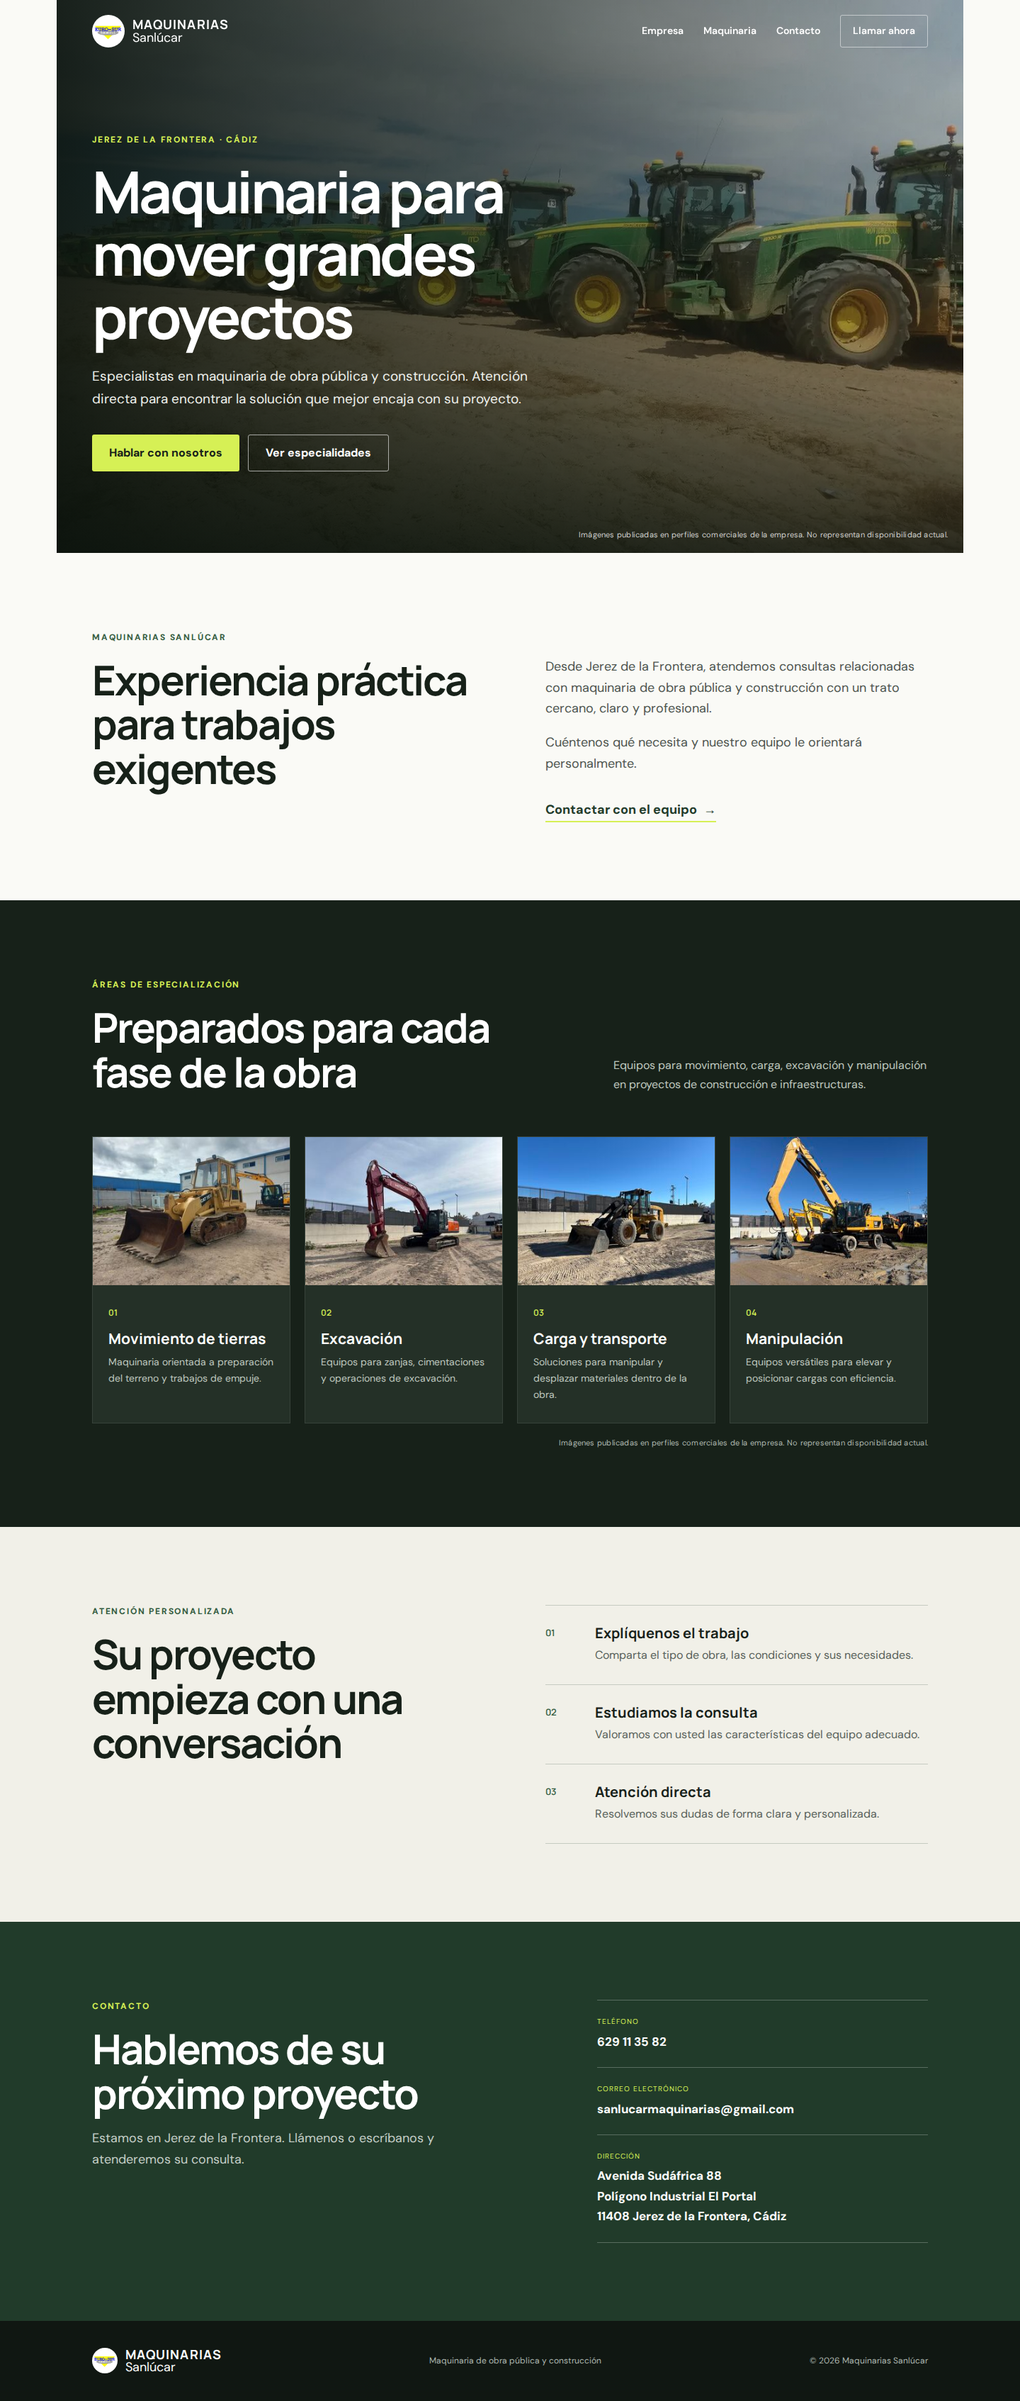
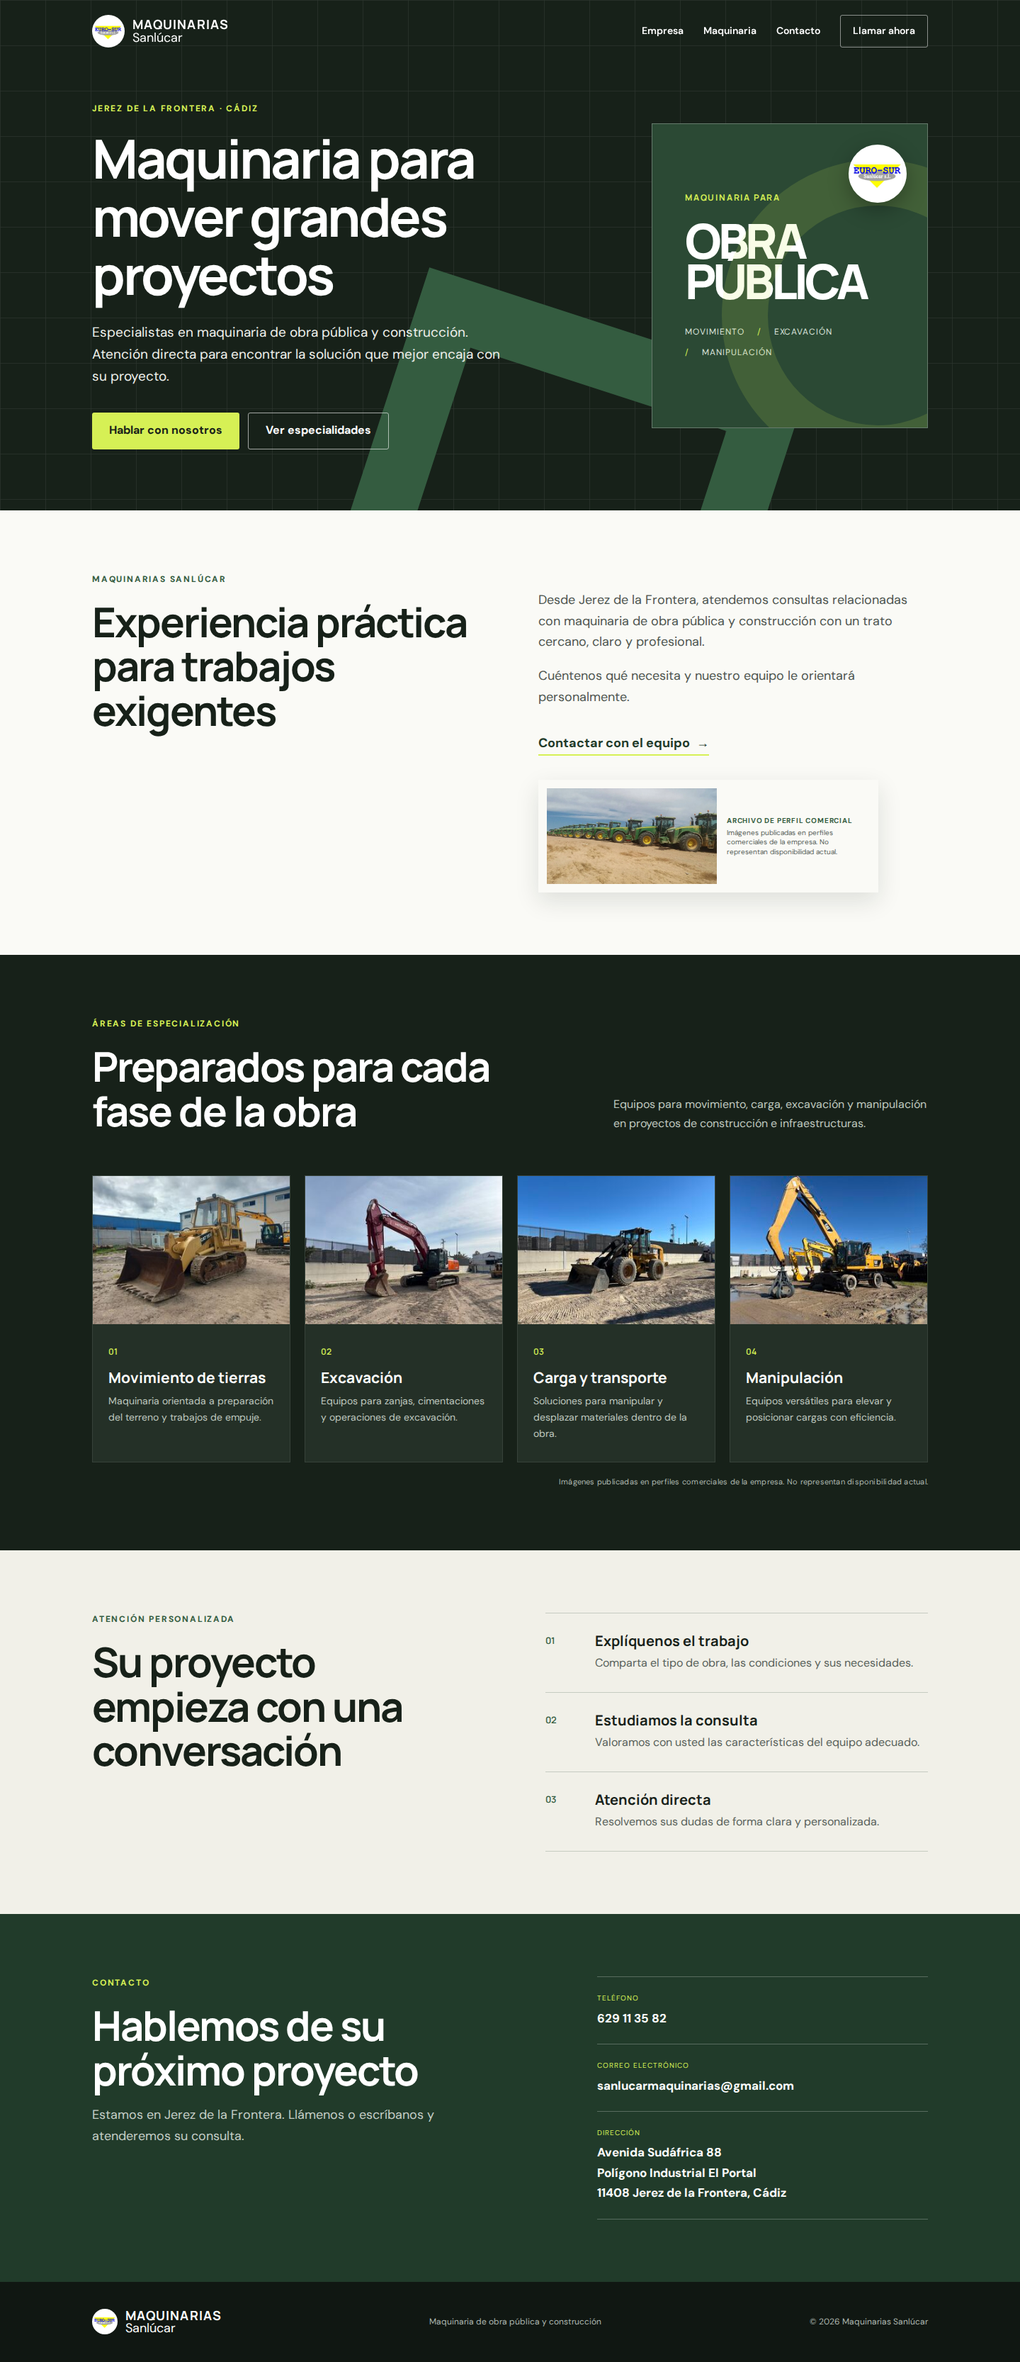
fix: simplificar composición editorial del hero

diff --git a/styles.css b/styles.css
@@ -3,11 +3,27 @@
 :root{--ink:#172119;--forest:#213b2a;--green:#345c40;--lime:#d6f055;--cream:#f1f0e8;--paper:#fafaf6;--line:#d5d8ce;--white:#fff;--sans:'DM Sans',Arial,sans-serif;--display:'Manrope',Arial,sans-serif;--shadow:0 18px 60px rgba(20,30,22,.14)}
 *{box-sizing:border-box}html{scroll-behavior:smooth}body{margin:0;background:var(--paper);color:var(--ink);font-family:var(--sans);font-size:16px;line-height:1.65}img{display:block;max-width:100%}a{color:inherit}.shell{width:min(1180px,calc(100% - 40px));margin-inline:auto}.skip-link{position:fixed;z-index:100;left:16px;top:-80px;background:var(--lime);padding:10px 16px;color:var(--ink)}.skip-link:focus{top:12px}.sr-only{position:absolute;width:1px;height:1px;padding:0;margin:-1px;overflow:hidden;clip:rect(0,0,0,0);white-space:nowrap;border:0}
 .site-header{position:fixed;z-index:20;inset:0 0 auto;color:var(--white);transition:.25s}.site-header.scrolled,.site-header.open{background:rgba(23,33,25,.97);box-shadow:0 8px 30px rgba(0,0,0,.18)}.nav-wrap{height:88px;display:flex;align-items:center;justify-content:space-between}.brand{display:flex;align-items:center;gap:11px;text-decoration:none;font-size:18px;line-height:1.05}.brand img{width:46px;height:46px;border-radius:50%;object-fit:cover}.brand span{display:grid}.brand strong{font-family:var(--display);text-transform:uppercase;letter-spacing:.06em}.site-nav{display:flex;align-items:center;gap:28px}.site-nav a{text-decoration:none;font-size:14px;font-weight:600}.site-nav>a:not(.nav-cta):hover{color:var(--lime)}.nav-cta{border:1px solid rgba(255,255,255,.5);padding:10px 17px;border-radius:3px}.nav-cta:hover{background:var(--lime);border-color:var(--lime);color:var(--ink)}.menu-toggle{display:none;background:none;border:0;padding:8px}.menu-toggle span:not(.sr-only){display:block;width:25px;height:2px;background:white;margin:5px}
-.hero{position:relative;isolation:isolate;min-height:780px;max-width:1280px;margin-inline:auto;display:flex;align-items:end;color:white;overflow:hidden;background:var(--ink)}.hero-media,.hero-shade{position:absolute;inset:0}.hero-media{z-index:-2;background:url('assets/hero-marketplace-1920.webp') center/cover no-repeat}.hero-shade{z-index:-1;background:linear-gradient(90deg,rgba(10,18,12,.92) 0%,rgba(12,22,15,.58) 54%,rgba(12,18,13,.18) 100%),linear-gradient(0deg,rgba(8,14,10,.78),transparent 42%)}.hero-content{padding-bottom:115px}.eyebrow{margin:0 0 18px;color:var(--lime);text-transform:uppercase;letter-spacing:.15em;font-weight:700;font-size:12px}.eyebrow.dark{color:var(--green)}h1,h2,h3{font-family:var(--display);line-height:1.08;margin-top:0}h1{max-width:800px;margin-bottom:24px;font-size:clamp(45px,7vw,82px);letter-spacing:-.045em}h2{font-size:clamp(34px,4.3vw,58px);letter-spacing:-.035em;margin-bottom:0}.hero-copy{font-size:19px;max-width:620px;color:#eef0eb;margin:0 0 35px}.hero-actions{display:flex;gap:12px;flex-wrap:wrap}.button{display:inline-flex;min-height:52px;align-items:center;justify-content:center;padding:0 24px;border-radius:3px;text-decoration:none;font-weight:700}.button-primary{background:var(--lime);color:var(--ink)}.button-primary:hover{background:white}.button-ghost{border:1px solid rgba(255,255,255,.6);color:white}.button-ghost:hover{background:white;color:var(--ink)}.image-label{font-size:11px;letter-spacing:.02em}.hero-label{position:absolute;right:22px;bottom:17px;margin:0;color:rgba(255,255,255,.78);text-align:right}
-.section{padding:110px 0}.split{display:grid;grid-template-columns:1fr 1fr;gap:100px;align-items:start}.intro-copy{padding-top:36px;font-size:18px;color:#4d554f}.intro-copy p:first-child{margin-top:0}.text-link{display:inline-flex;gap:9px;margin-top:18px;color:var(--forest);font-weight:700;text-decoration:none;border-bottom:2px solid var(--lime)}
+.hero{position:relative;isolation:isolate;min-height:720px;display:flex;align-items:center;color:white;overflow:hidden;background:var(--ink)}.hero::before{content:"";position:absolute;z-index:-1;width:560px;height:560px;right:-150px;top:-170px;border-radius:50%;background:var(--lime);opacity:.92}.hero::after{content:"";position:absolute;z-index:-1;width:380px;height:380px;right:26%;bottom:-290px;border:90px solid var(--green);transform:rotate(18deg)}.hero-gridlines{position:absolute;inset:0;z-index:-1;opacity:.09;background-image:linear-gradient(rgba(255,255,255,.7) 1px,transparent 1px),linear-gradient(90deg,rgba(255,255,255,.7) 1px,transparent 1px);background-size:64px 64px}.hero-layout{display:grid;grid-template-columns:minmax(0,1.3fr) minmax(390px,.7fr);gap:70px;align-items:center;padding-top:112px;padding-bottom:54px}.hero-content{position:relative;z-index:2}.eyebrow{margin:0 0 18px;color:var(--lime);text-transform:uppercase;letter-spacing:.15em;font-weight:700;font-size:12px}.eyebrow.dark{color:var(--green)}h1,h2,h3{font-family:var(--display);line-height:1.08;margin-top:0}h1{max-width:760px;margin-bottom:24px;font-size:clamp(45px,6vw,76px);letter-spacing:-.045em}h2{font-size:clamp(34px,4.3vw,58px);letter-spacing:-.035em;margin-bottom:0}.hero-copy{font-size:19px;max-width:600px;color:#eef0eb;margin:0 0 35px}.hero-actions{display:flex;gap:12px;flex-wrap:wrap}.button{display:inline-flex;min-height:52px;align-items:center;justify-content:center;padding:0 24px;border-radius:3px;text-decoration:none;font-weight:700}.button-primary{background:var(--lime);color:var(--ink)}.button-primary:hover{background:white}.button-ghost{border:1px solid rgba(255,255,255,.6);color:white}.button-ghost:hover{background:white;color:var(--ink)}.image-label{font-size:11px;letter-spacing:.02em}.hero-editorial{position:relative;min-height:500px}.diagram{position:absolute;inset:0 0 62px 0;border:1px solid rgba(255,255,255,.3);background:#2b4934;overflow:hidden}.diagram::before,.diagram::after{content:"";position:absolute;border:1px solid rgba(214,240,85,.52);border-radius:50%}.diagram::before{width:280px;height:280px;right:-78px;top:50px}.diagram::after{width:130px;height:130px;left:45px;bottom:48px}.diagram-index{position:absolute;left:22px;top:17px;font:700 11px var(--display);letter-spacing:.18em;color:var(--lime)}.diagram-mark{position:absolute;right:28px;top:28px;display:flex;gap:6px}.diagram-mark i{display:block;width:8px;height:8px;background:var(--lime)}.diagram p{position:absolute;left:30px;top:77px;margin:0;font:800 50px/.84 var(--display);letter-spacing:-.07em;color:white}.diagram-axis{position:absolute;display:block;background:rgba(255,255,255,.38)}.axis-x{width:70%;height:1px;right:0;bottom:106px}.axis-y{height:70%;width:1px;right:102px;bottom:0}.diagram-note{position:absolute;left:23px;bottom:16px;max-width:190px;font-size:9px;line-height:1.3;text-transform:uppercase;letter-spacing:.12em;color:#cbd5cd}.hero-logo{position:absolute;z-index:2;right:24px;top:88px;width:96px;height:96px;border-radius:50%;box-shadow:0 10px 30px rgba(0,0,0,.3)}.archive-card{position:absolute;z-index:3;right:-12px;bottom:0;width:272px;margin:0;padding:9px;background:var(--paper);color:var(--ink);box-shadow:var(--shadow);transform:rotate(-1.5deg)}.archive-thumb{width:240px;max-width:240px;height:135px;object-fit:cover;margin:auto}.archive-card figcaption{padding:8px 3px 2px;font-size:9px;line-height:1.35;color:#59625b}.archive-card strong{display:block;margin-bottom:3px;color:var(--green);font-size:10px;text-transform:uppercase;letter-spacing:.08em}
+.section{padding:88px 0}.split{display:grid;grid-template-columns:1fr 1fr;gap:80px;align-items:start}.intro-copy{padding-top:24px;font-size:18px;color:#4d554f}.intro-copy p:first-child{margin-top:0}.text-link{display:inline-flex;gap:9px;margin-top:18px;color:var(--forest);font-weight:700;text-decoration:none;border-bottom:2px solid var(--lime)}
 .machines{background:var(--ink);color:white}.section-heading{display:grid;grid-template-columns:1.5fr 1fr;gap:70px;align-items:end;margin-bottom:60px}.section-heading>p{color:#bfc8bf;margin:0}.machine-grid{display:grid;grid-template-columns:repeat(4,1fr);gap:20px}.machine-card{background:#243027;border:1px solid rgba(255,255,255,.09);overflow:hidden}.machine-card img{width:100%;max-width:308px;height:auto;aspect-ratio:4/3;object-fit:cover;margin-inline:auto}.machine-card>div{padding:25px 22px 28px}.machine-card span{font-family:var(--display);font-size:12px;color:var(--lime)}.machine-card h3{font-size:21px;margin:13px 0 10px}.machine-card p{font-size:14px;color:#bfc8bf;margin:0}.gallery-label{text-align:right;color:#aeb9b0;margin:18px 0 0}
 .process{background:var(--cream)}.process-grid{display:grid;grid-template-columns:1fr 1fr;gap:100px}.steps{list-style:none;margin:0;padding:0}.steps li{display:grid;grid-template-columns:52px 1fr;gap:18px;padding:28px 0;border-top:1px solid #c6cbc1}.steps li:last-child{border-bottom:1px solid #c6cbc1}.steps>li>span{font-family:var(--display);color:var(--green);font-size:13px}.steps h3{margin:0 0 7px;font-size:20px}.steps p{margin:0;color:#59625b}
 .contact{background:var(--forest);color:white}.contact-panel{display:grid;grid-template-columns:1.15fr .85fr;gap:80px}.contact-lead>p:last-child{color:#c5cec7;max-width:520px;font-size:18px}.contact-details{border-top:1px solid rgba(255,255,255,.25)}.contact-details>a,.contact-details address{display:block;padding:22px 0;border-bottom:1px solid rgba(255,255,255,.25);text-decoration:none;font-style:normal}.contact-details small{display:block;color:var(--lime);text-transform:uppercase;letter-spacing:.1em;font-size:10px;margin-bottom:5px}.contact-details strong{font-size:17px;overflow-wrap:anywhere}.contact-details a:hover strong{color:var(--lime)}footer{background:#101712;color:#aeb7b0;padding:35px 0}.footer-inner{display:flex;align-items:center;justify-content:space-between;gap:25px;font-size:12px}.footer-brand{color:white}.footer-brand img{width:36px;height:36px}
-@media(max-width:900px){.site-nav{position:absolute;inset:88px 0 auto;background:var(--ink);padding:24px 20px 32px;display:none;flex-direction:column;align-items:stretch}.site-header.open .site-nav{display:flex}.menu-toggle{display:block}.hero{min-height:700px}.machine-grid{grid-template-columns:repeat(2,minmax(0,308px));justify-content:center}.split,.process-grid,.contact-panel{grid-template-columns:1fr;gap:50px}.section-heading{grid-template-columns:1fr;gap:25px}.section{padding:80px 0}}
-@media(max-width:600px){.shell{width:min(100% - 28px,1180px)}.nav-wrap{height:74px}.site-nav{top:74px}.brand{font-size:15px}.brand img{width:39px;height:39px}.hero{min-height:680px}.hero-content{padding-bottom:105px}.hero-copy{font-size:17px}.button{width:100%}.hero-label{left:14px;right:14px;text-align:left}.machine-grid{grid-template-columns:minmax(0,308px)}.section{padding:66px 0}.footer-inner{flex-direction:column;text-align:center}.footer-inner>p{margin:0}}
+@media(max-width:900px){.site-nav{position:absolute;inset:88px 0 auto;background:var(--ink);padding:24px 20px 32px;display:none;flex-direction:column;align-items:stretch}.site-header.open .site-nav{display:flex}.menu-toggle{display:block}.hero-layout{grid-template-columns:1fr .72fr;gap:30px}.hero-editorial{min-height:450px}.diagram p{font-size:39px}.archive-card{right:0}.machine-grid{grid-template-columns:repeat(2,minmax(0,308px));justify-content:center}.split,.process-grid,.contact-panel{grid-template-columns:1fr;gap:42px}.section-heading{grid-template-columns:1fr;gap:25px}.section{padding:72px 0}}
+@media(max-width:600px){.shell{width:min(100% - 28px,1180px)}.nav-wrap{height:74px}.site-nav{top:74px}.brand{font-size:15px}.brand img{width:39px;height:39px}.hero::before{width:300px;height:300px;right:-160px;top:-60px}.hero-layout{grid-template-columns:1fr;padding-top:112px;padding-bottom:38px}.hero-copy{font-size:17px}.button{width:100%}.hero-editorial{min-height:330px}.diagram{inset:0 0 38px 0}.diagram p{font-size:42px}.diagram::before{width:210px;height:210px}.diagram::after{display:none}.hero-logo{width:74px;height:74px;right:18px;top:58px}.archive-card{width:220px;padding:7px}.archive-thumb{width:206px;max-width:206px;height:116px}.archive-card figcaption{font-size:8px}.machine-grid{grid-template-columns:minmax(0,308px)}.section{padding:58px 0}.footer-inner{flex-direction:column;text-align:center}.footer-inner>p{margin:0}}
 @media(prefers-reduced-motion:reduce){html{scroll-behavior:auto}*{transition:none!important}}
+
+/* Simplificación comercial final */
+.hero-editorial{min-height:430px}
+.hero::before{display:none}
+.diagram{inset:0;display:flex;flex-direction:column;justify-content:center;padding:46px;border:1px solid rgba(255,255,255,.28);background:#2b4934;overflow:hidden}
+.diagram::before{content:"";position:absolute;width:310px;height:310px;right:-150px;bottom:-170px;border:65px solid rgba(214,240,85,.14);border-radius:50%}
+.diagram::after{display:none}
+.diagram-index{position:static;font:700 12px var(--display);letter-spacing:.15em;color:var(--lime);text-transform:uppercase}
+.diagram p{position:static;margin:24px 0 34px;font:800 clamp(46px,5vw,68px)/.84 var(--display);letter-spacing:-.07em;color:white}
+.diagram ul{display:flex;flex-wrap:wrap;gap:9px 18px;list-style:none;margin:0;padding:0;color:#dce4dd;font-size:12px;text-transform:uppercase;letter-spacing:.08em}
+.diagram li+li::before{content:"/";margin-right:18px;color:var(--lime)}
+.hero-logo{right:30px;top:30px;width:82px;height:82px}
+.archive-card.archive-inline{position:static;width:min(100%,480px);margin:34px 0 0;padding:12px;display:grid;grid-template-columns:240px 1fr;gap:14px;align-items:center;transform:none;box-shadow:0 12px 32px rgba(20,30,22,.12)}
+.archive-inline .archive-thumb{width:240px;max-width:240px;height:135px}
+.archive-inline figcaption{padding:0;font-size:10px}
+@media(max-width:600px){.hero::before{display:none}.hero-editorial{min-height:300px}.diagram{padding:34px 26px}.diagram p{font-size:48px;margin:20px 0 28px}.diagram ul{display:grid;gap:5px}.diagram li+li::before{content:none}.hero-logo{width:66px;height:66px;right:20px;top:20px}.archive-card.archive-inline{grid-template-columns:1fr;width:100%;padding:10px}.archive-inline .archive-thumb{width:240px;height:135px}.menu-toggle span:not(.sr-only){background:#fff}}

diff --git a/index.html b/index.html
@@ -32,18 +32,30 @@
 
   <main id="contenido">
     <section class="hero" id="inicio" aria-labelledby="hero-title">
-      <div class="hero-media" role="img" aria-label="Maquinaria de construcción en un entorno de trabajo"></div>
-      <div class="hero-shade"></div>
-      <div class="shell hero-content">
-        <p class="eyebrow">Jerez de la Frontera · Cádiz</p>
-        <h1 id="hero-title">Maquinaria para mover grandes proyectos</h1>
-        <p class="hero-copy">Especialistas en maquinaria de obra pública y construcción. Atención directa para encontrar la solución que mejor encaja con su proyecto.</p>
-        <div class="hero-actions">
-          <a class="button button-primary" href="tel:+34629113582">Hablar con nosotros</a>
-          <a class="button button-ghost" href="#servicios">Ver especialidades</a>
+      <div class="hero-gridlines" aria-hidden="true"></div>
+      <div class="shell hero-layout">
+        <div class="hero-content">
+          <p class="eyebrow">Jerez de la Frontera · Cádiz</p>
+          <h1 id="hero-title">Maquinaria para mover grandes proyectos</h1>
+          <p class="hero-copy">Especialistas en maquinaria de obra pública y construcción. Atención directa para encontrar la solución que mejor encaja con su proyecto.</p>
+          <div class="hero-actions">
+            <a class="button button-primary" href="tel:+346****3582">Hablar con nosotros</a>
+            <a class="button button-ghost" href="#servicios">Ver especialidades</a>
+          </div>
+        </div>
+        <div class="hero-editorial">
+          <div class="diagram">
+            <span class="diagram-index">Maquinaria para</span>
+            <p>OBRA<br>PÚBLICA</p>
+            <ul aria-label="Áreas principales">
+              <li>Movimiento</li>
+              <li>Excavación</li>
+              <li>Manipulación</li>
+            </ul>
+          </div>
+          <img class="hero-logo" src="assets/logo.webp" width="210" height="210" alt="Logotipo de Maquinarias Sanlúcar">
         </div>
       </div>
-      <p class="image-label hero-label">Imágenes publicadas en perfiles comerciales de la empresa. No representan disponibilidad actual.</p>
     </section>
 
     <section class="intro section" id="empresa">
@@ -56,6 +68,10 @@
           <p>Desde Jerez de la Frontera, atendemos consultas relacionadas con maquinaria de obra pública y construcción con un trato cercano, claro y profesional.</p>
           <p>Cuéntenos qué necesita y nuestro equipo le orientará personalmente.</p>
           <a class="text-link" href="#contacto">Contactar con el equipo <span aria-hidden="true">→</span></a>
+          <figure class="archive-card archive-inline">
+            <img class="archive-thumb" src="assets/hero-marketplace-1920.webp" width="240" height="135" alt="Archivo visual del perfil comercial de la empresa">
+            <figcaption><strong>Archivo de perfil comercial</strong>Imágenes publicadas en perfiles comerciales de la empresa. No representan disponibilidad actual.</figcaption>
+          </figure>
         </div>
       </div>
     </section>

diff --git a/tests/test_site.py b/tests/test_site.py
@@ -73,8 +73,13 @@ class SiteTests(unittest.TestCase):
 
     def test_editorial_image_limits_and_label(self):
         self.assertGreaterEqual(self.html.count(REQUIRED_LABEL), 2)
-        self.assertRegex(self.css, r"\.hero\{[^}]*max-width:1280px")
+        self.assertNotIn("background:url('assets/hero-marketplace-1920.webp')", self.css)
+        self.assertRegex(self.css, r"\.archive-thumb\{[^}]*max-width:240px")
+        self.assertIn("Archivo de perfil comercial", self.html)
         self.assertRegex(self.css, r"\.machine-card img\{[^}]*max-width:308px")
+        hero_thumb = [i for i in self.parser.images if "hero-marketplace" in i.get("src", "")]
+        self.assertEqual(len(hero_thumb), 1)
+        self.assertEqual((hero_thumb[0].get("width"), hero_thumb[0].get("height")), ("240", "135"))
         thumbs = [i for i in self.parser.images if "apoyo-" in i.get("src", "")]
         self.assertEqual(len(thumbs), 4)
         self.assertTrue(all(i.get("width") == "308" and i.get("height") == "231" for i in thumbs))

diff --git a/README.md b/README.md
@@ -23,11 +23,11 @@ Las pruebas comprueban estructura, enlaces, assets, límites editoriales de imag
 ## Archivos
 
 - `index.html`: contenido y estructura accesible.
-- `styles.css`: diseño responsive, con hero limitado a 1280 px y miniaturas sin ampliación por encima de 308 px.
+- `styles.css`: diseño responsive, con hero editorial sin fotografía ampliada y miniaturas sin ampliación.
 - `script.js`: menú móvil, cabecera y año del pie.
 - `image-sources.json`: procedencia y restricciones editoriales.
 - `assets/`: seis recursos aprobados.
 
 ## Nota editorial
 
-Las imágenes proceden de perfiles comerciales inequívocos de la empresa y se emplean solo en esta demo. No constituyen inventario ni representan disponibilidad actual. Los derechos no se han declarado como licencia libre; debe confirmarse el permiso de reutilización antes de publicar.
+Las imágenes proceden de perfiles comerciales inequívocos de la empresa y se emplean solo en esta demo. La imagen histórica de cabecera aparece únicamente como miniatura de archivo contenida. No constituyen inventario ni representan disponibilidad actual. Los derechos no se han declarado como licencia libre; debe confirmarse el permiso de reutilización antes de publicar.
